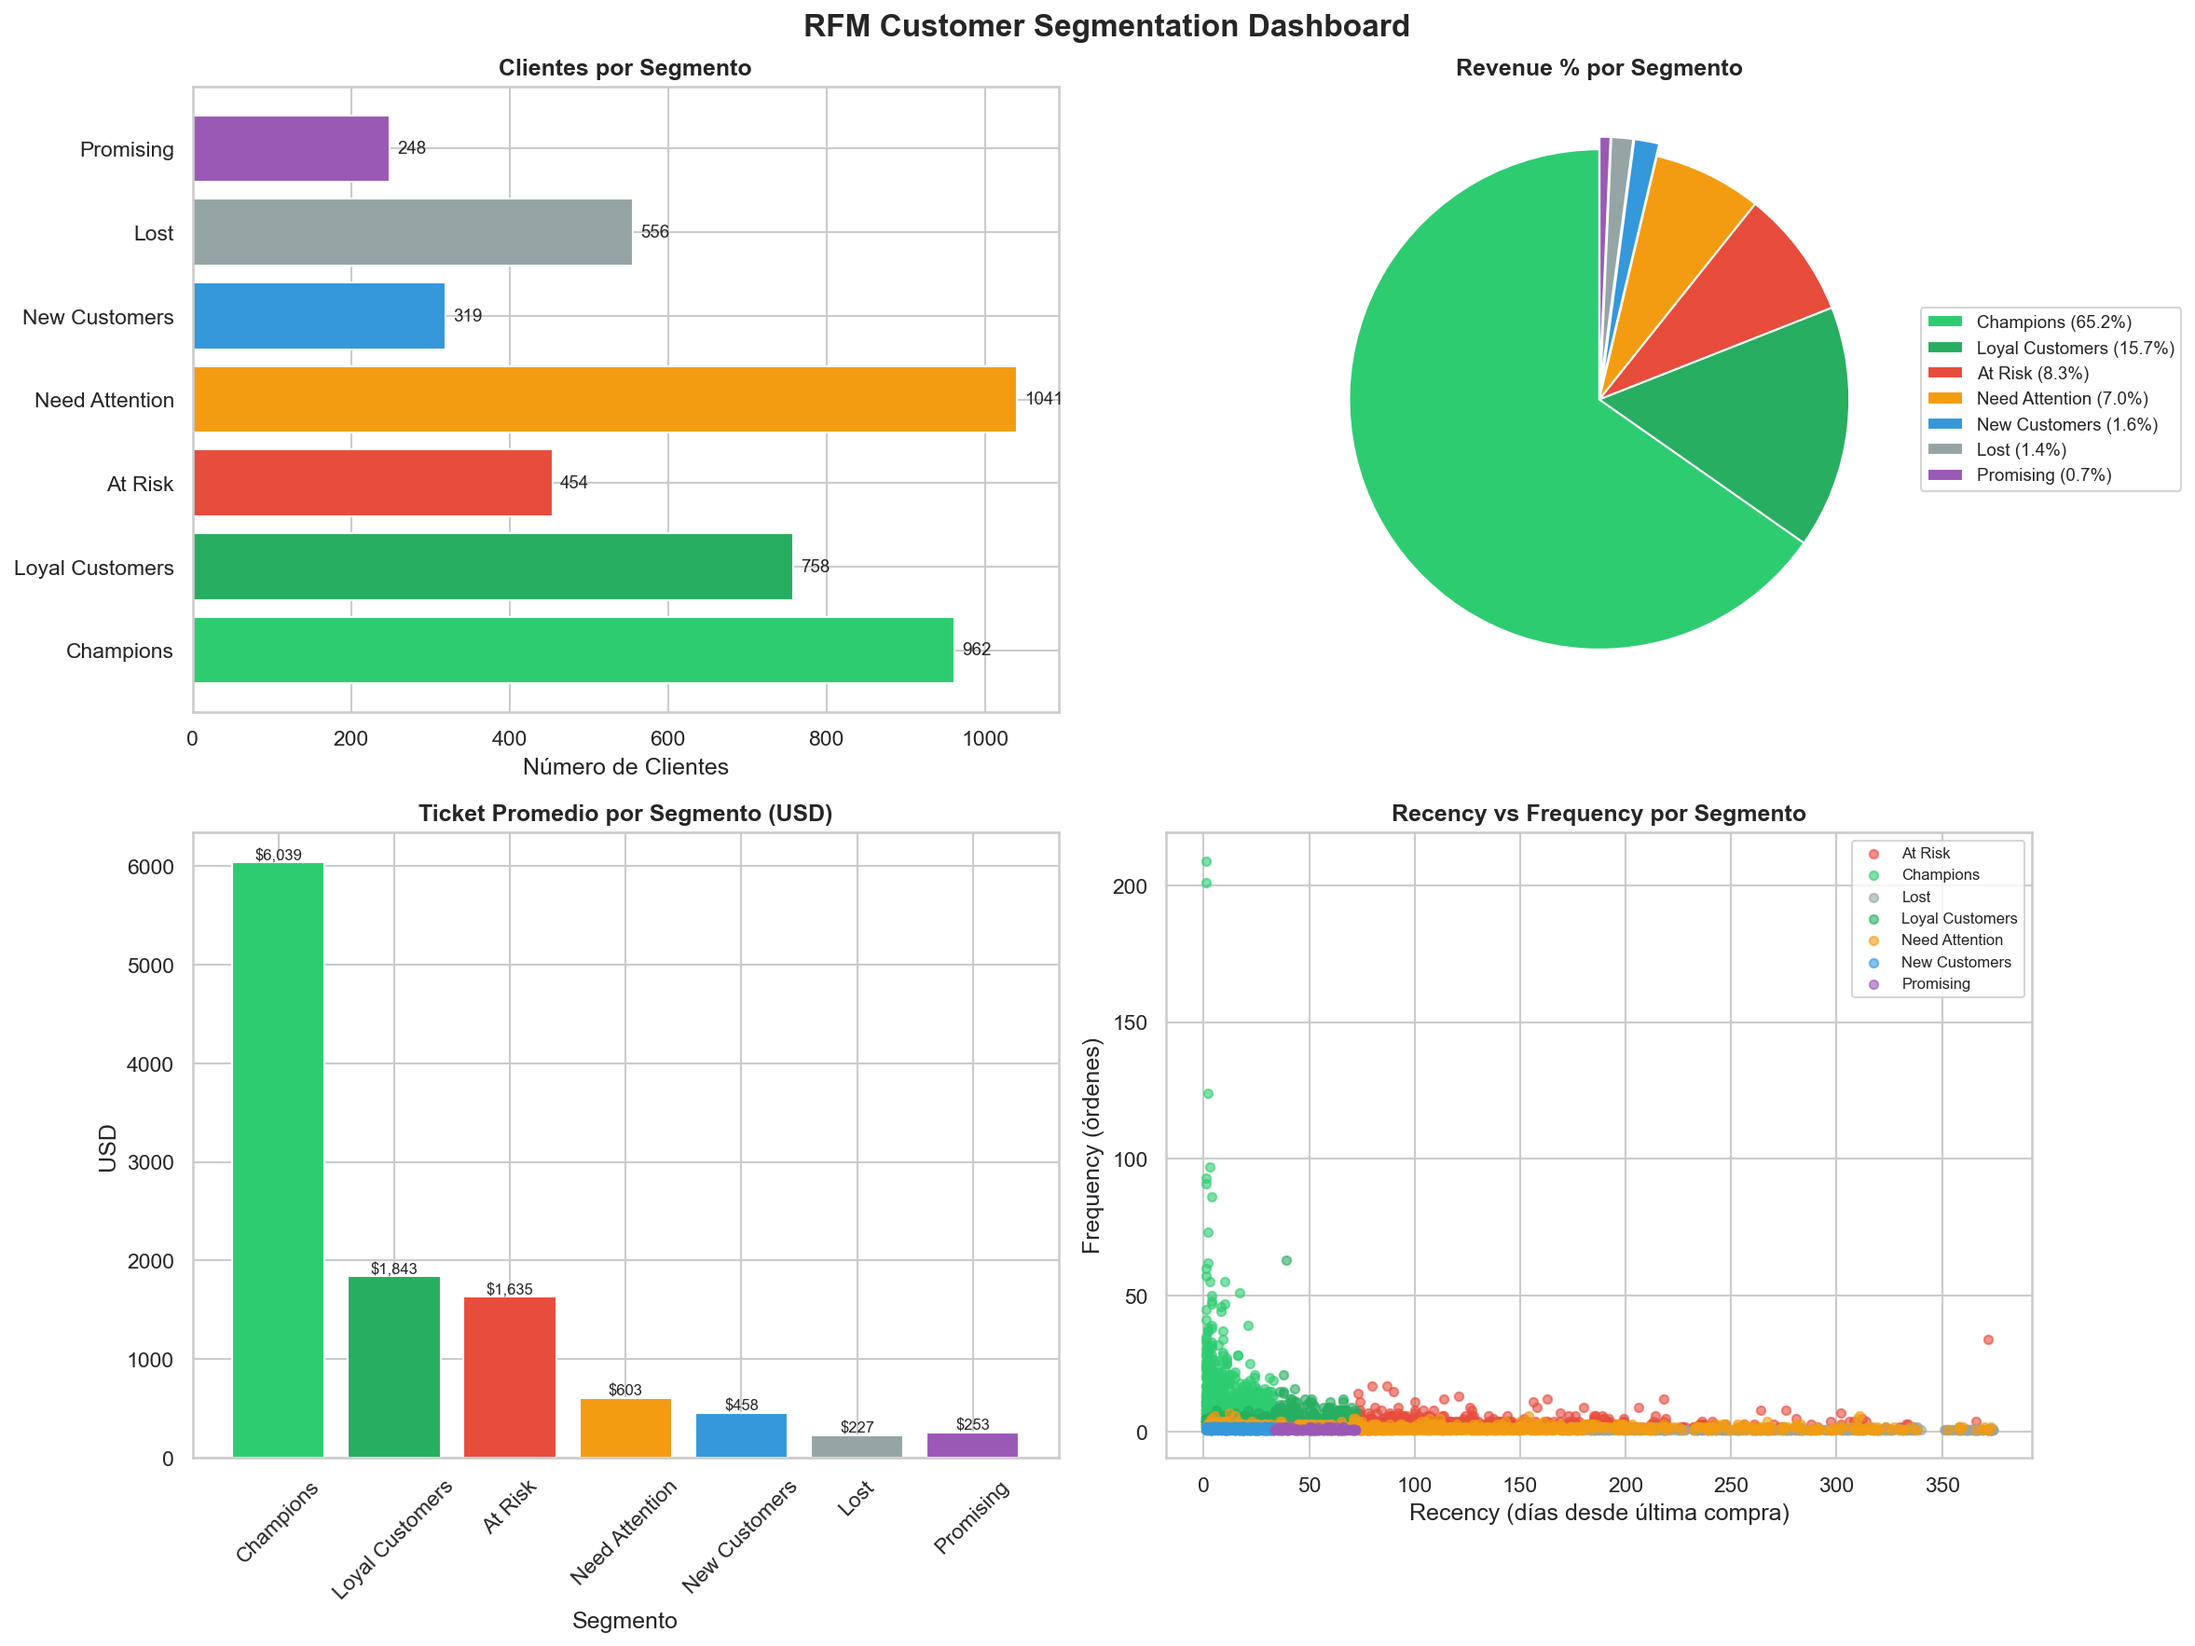
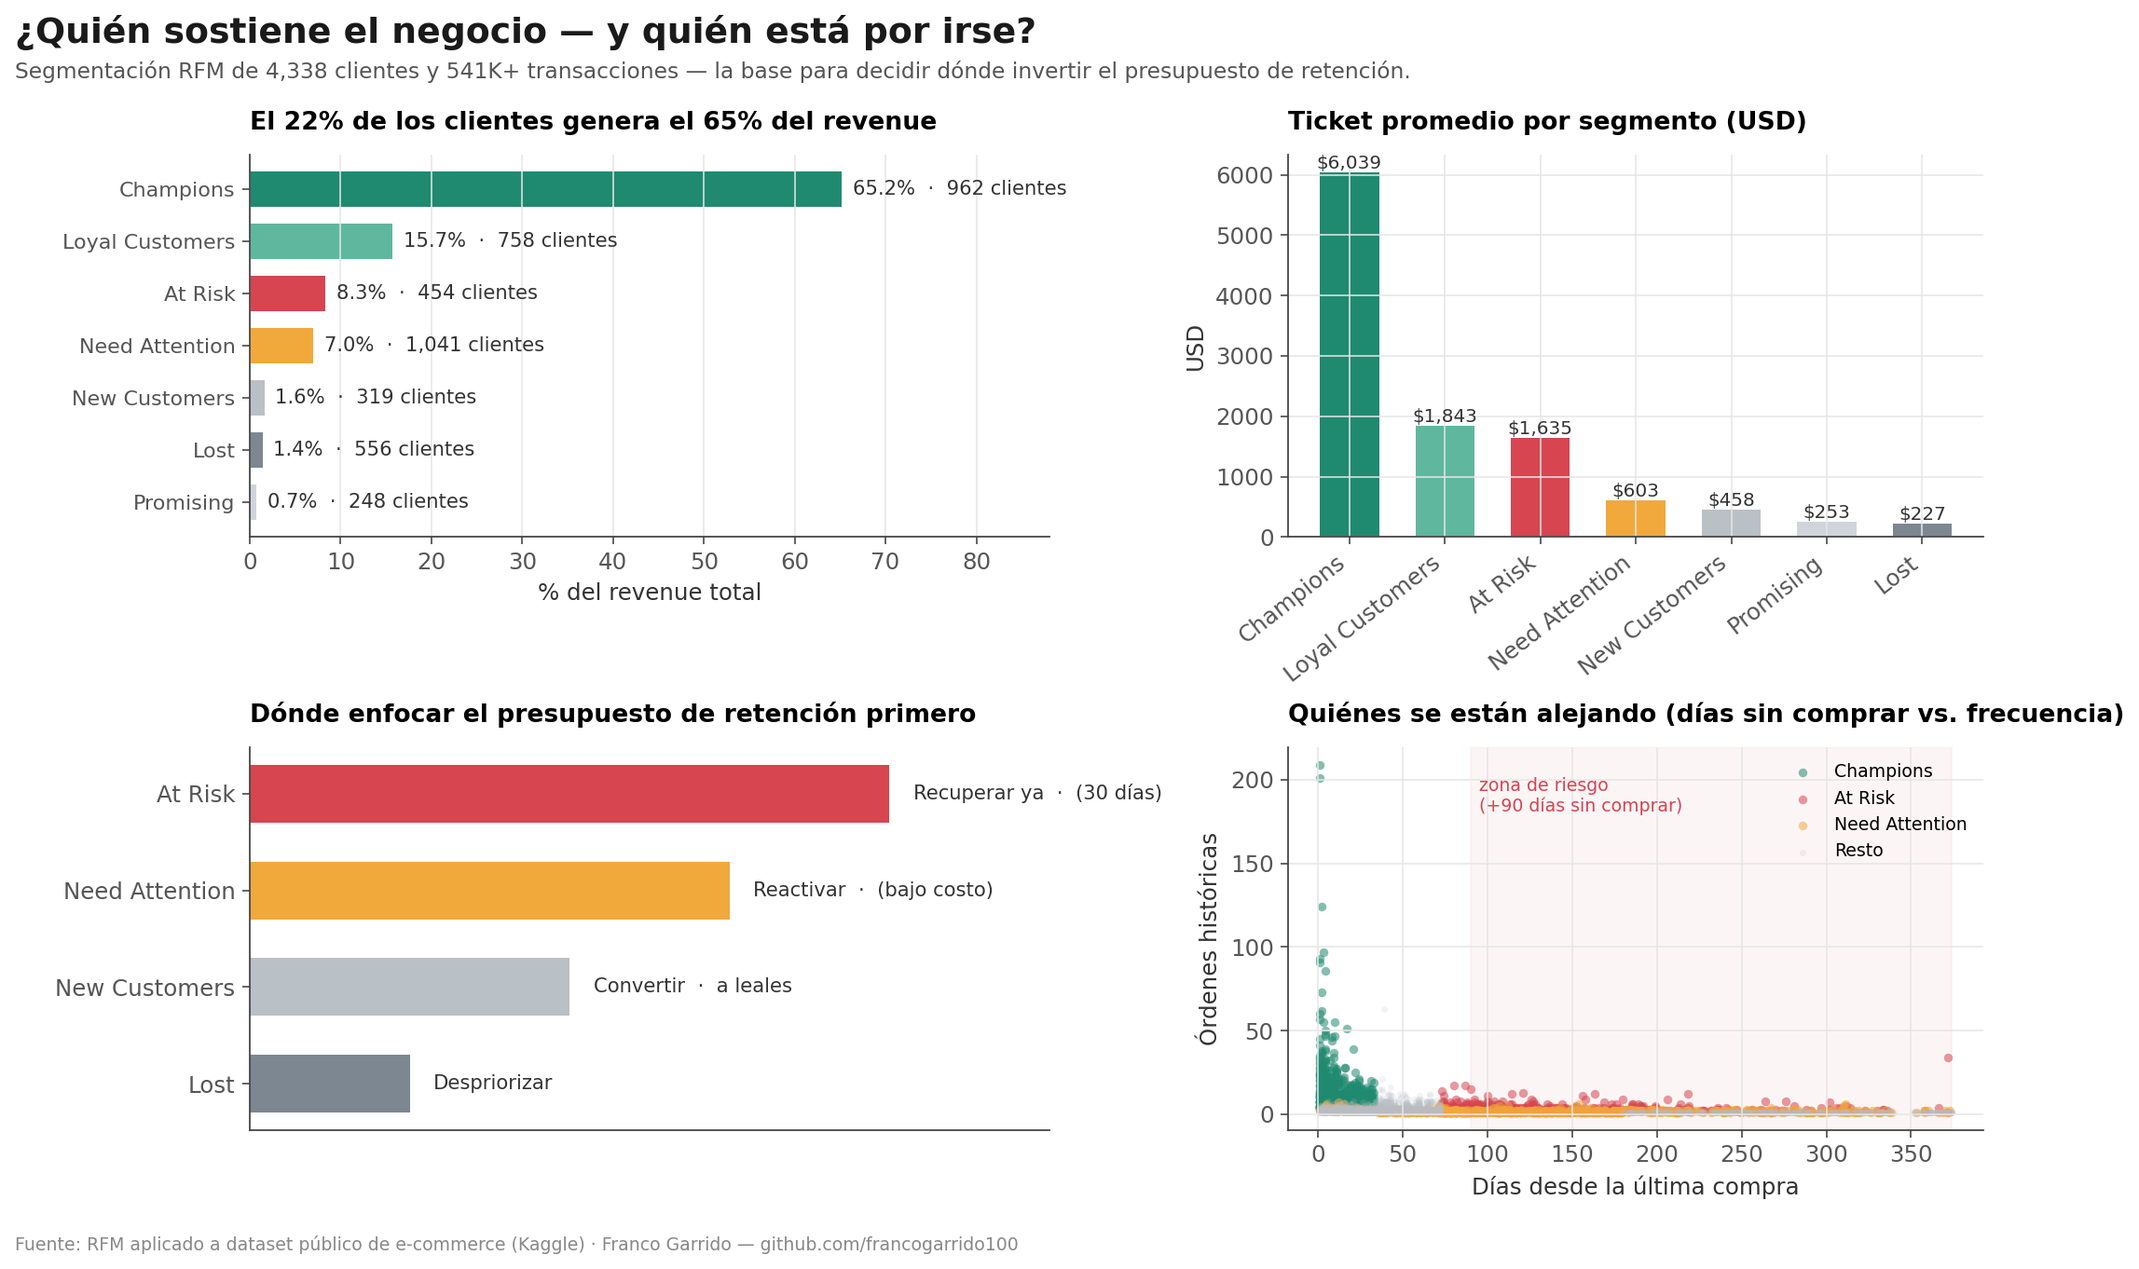
refactor: reorient README and dashboard around business decisions
Lead with the key insight (revenue concentration) and put the dashboard
up front. Replace the decorative pie chart with a retention-priority
ranking, and use color semantically (urgency, opportunity, low impact)
instead of a generic per-segment palette.

diff --git a/ReadMe.md b/ReadMe.md
@@ -1,30 +1,31 @@
-# RFM Customer Segmentation Analysis 🛍
+# Segmentación de Clientes (RFM) — ¿A quién protejo y a quién recupero primero?
 
-## Overview
-End-to-end customer segmentation analysis using the RFM model (Recency, Frequency, Monetary)
-applied to 12 months of real e-commerce transactional data (541K+ transactions, 4,338 customers).
-The goal was to identify actionable customer segments to optimize marketing spend and retention strategy.
-
-**Tools:** Python · Pandas · Matplotlib · Seaborn · Excel
+> **El 22% de los clientes genera el 65% del revenue — y 454 de los compradores más valiosos llevan ~142 días sin volver a comprar.** Esta segmentación identifica exactamente quiénes son, y en qué orden actuar antes de perderlos.
 
 ---
 
-## What is RFM?
-RFM is a proven marketing framework that scores each customer across three dimensions:
-- **Recency** — How recently did they purchase?
-- **Frequency** — How often do they purchase?
-- **Monetary** — How much have they spent in total?
+## El problema de negocio
 
-Each customer receives a score from 1–5 per dimension, enabling precise segmentation.
+Una empresa de e-commerce con 4,338 clientes activos y 541K+ transacciones en 12 meses no tenía forma de responder preguntas básicas para planificar retención: ¿en quién conviene invertir el presupuesto de marketing esta semana? ¿quién está a punto de irse? ¿a quién ya no vale la pena perseguir?
+
+Apliqué el modelo **RFM (Recency, Frequency, Monetary)** para convertir esa masa de transacciones en 7 segmentos accionables, y prioricé qué hacer con cada uno.
 
 ---
 
-## Key Findings
+## Dashboard
 
-### 👑 Champions Drive Almost Everything
+![Segmentación de clientes — dashboard](rfm_dashboard.png)
 
-| Segment | Customers | Revenue | Avg Ticket |
-|---------|-----------|---------|------------|
+*Cada panel responde una decisión concreta: dónde está concentrado el revenue, cuánto vale cada segmento, dónde enfocar el presupuesto de retención primero, y quién se está alejando.*
+
+---
+
+## Hallazgos clave
+
+**1. La base de clientes es altamente concentrada — y eso es una vulnerabilidad, no solo una buena noticia**
+
+| Segmento | Clientes | % del Revenue | Ticket promedio |
+|---|---|---|---|
 | Champions | 962 | 65.2% | $6,039 |
 | Loyal Customers | 758 | 15.7% | $1,843 |
 | At Risk | 454 | 8.3% | $1,635 |
@@ -33,45 +34,55 @@ Each customer receives a score from 1–5 per dimension, enabling precise segmen
 | Lost | 556 | 1.4% | $227 |
 | Promising | 248 | 0.7% | $253 |
 
-962 customers (22% of the base) generate 65% of all revenue. Losing even a fraction of Champions would critically damage the business.
+Perder una fracción de los Champions golpearía el negocio de forma desproporcionada frente a su tamaño relativo (22% de la base).
 
-### 🚨 At Risk: The Urgent Priority
-454 high-value customers (avg ticket $1,635) haven't purchased in ~142 days.
-These were once strong buyers — a targeted win-back campaign could recover significant revenue before they move to the Lost segment permanently.
+**2. "At Risk" es la prioridad número uno — no "Lost"**
 
-### ⚠ Need Attention: The Hidden Opportunity
-The largest segment (1,041 customers) but only 7% of revenue.
-They bought before but engagement is fading (118 days avg recency, only 1.7 orders avg).
-Low-cost reactivation campaigns (email, discount) could unlock meaningful upside.
+454 clientes de alto valor (ticket promedio $1,635) llevan ~142 días sin comprar. Fueron compradores fuertes; todavía están a tiempo de ser recuperados con una campaña de win-back dirigida — a diferencia de "Lost" (280 días de inactividad promedio), donde el costo de reactivación probablemente supera el retorno.
 
-### 📉 Lost Segment: Triage Decision
-556 customers averaging 280 days inactive with low spend history.
-Cost of reactivation likely exceeds return — recommend deprioritizing vs At Risk.
+**3. "Need Attention" es la oportunidad de bajo costo más grande**
+
+Es el segmento más numeroso (1,041 clientes) pero solo aporta 7% del revenue. Compraron antes, pero su actividad cae (118 días de recencia promedio, apenas 1.7 órdenes). Una secuencia de reactivación por email de bajo costo puede destrabar este volumen.
 
 ---
 
-## Business Recommendations
+## Recomendaciones priorizadas
 
-1. **Protect Champions** — loyalty program, exclusive perks, early access to new products
-2. **Win back At Risk immediately** — personalized email campaign within 30 days
-3. **Reactivate Need Attention** — low-cost email sequence with soft incentive
-4. **Nurture New Customers** — onboarding sequence to convert them into Loyal Customers
-5. **Deprioritize Lost** — minimal spend, broad reactivation only if budget allows
-
----
-
-## Project Structure
-
-    rfm_customer_segmentation/
-    │
-    ├── rfm_analysis.ipynb       # Full analysis notebook
-    ├── rfm_results.xlsx         # RFM scores and segment summary
-    ├── rfm_dashboard.png        # Customer segmentation visualizations
-    └── README.md
-
-Data used: https://www.kaggle.com/datasets/carrie1/ecommerce-data
+| # | Acción | Por qué primero |
+|---|---|---|
+| 1 | Programa de fidelización y beneficios exclusivos para Champions | Protege al 22% de clientes que sostiene dos tercios del negocio |
+| 2 | Campaña de recuperación dirigida a "At Risk" dentro de 30 días | Última ventana realista antes de que pasen a "Lost" de forma permanente |
+| 3 | Secuencia de reactivación de bajo costo para "Need Attention" | Mayor volumen de clientes a menor costo de conversión |
+| 4 | Onboarding para convertir "New Customers" en leales | Define si el negocio crece o solo repone bajas |
+| 5 | Despriorizar "Lost" | El costo de reactivación supera el retorno esperado |
 
 ---
 
-## Author
-Franco Garrido · [GitHub](https://github.com/francogarrido100) · [Upwork](https://www.upwork.com/freelancers/~01464eeecfaee2a8a5)
+## Cómo se construyó
+
+- Cálculo de Recency, Frequency y Monetary por cliente sobre 12 meses de transacciones
+- Scoring 1–5 por dimensión y combinación en 7 segmentos estándar de la industria
+- Resumen por segmento (tamaño, revenue, ticket promedio) para soportar la priorización
+
+**Stack:** Python · Pandas · Matplotlib · Seaborn · Excel
+
+---
+
+## Estructura del repositorio
+
+```
+rfm_customer_segmentation/
+│
+├── rfm_analysis.ipynb     # Notebook completo (cálculo RFM + segmentación + visualizaciones)
+├── rfm_results.xlsx       # Scores RFM por cliente y resumen por segmento
+├── rfm_dashboard.png      # Dashboard de segmentación
+└── ReadMe.md
+```
+
+Dataset: [E-commerce Data (Kaggle)](https://www.kaggle.com/datasets/carrie1/ecommerce-data)
+
+---
+
+## Autor
+
+Franco Garrido — Economista especializado en analítica de negocio · [GitHub](https://github.com/francogarrido100) · [LinkedIn](https://www.linkedin.com/in/franco-garrido) · [Upwork](https://www.upwork.com/freelancers/~01464eeecfaee2a8a5)
